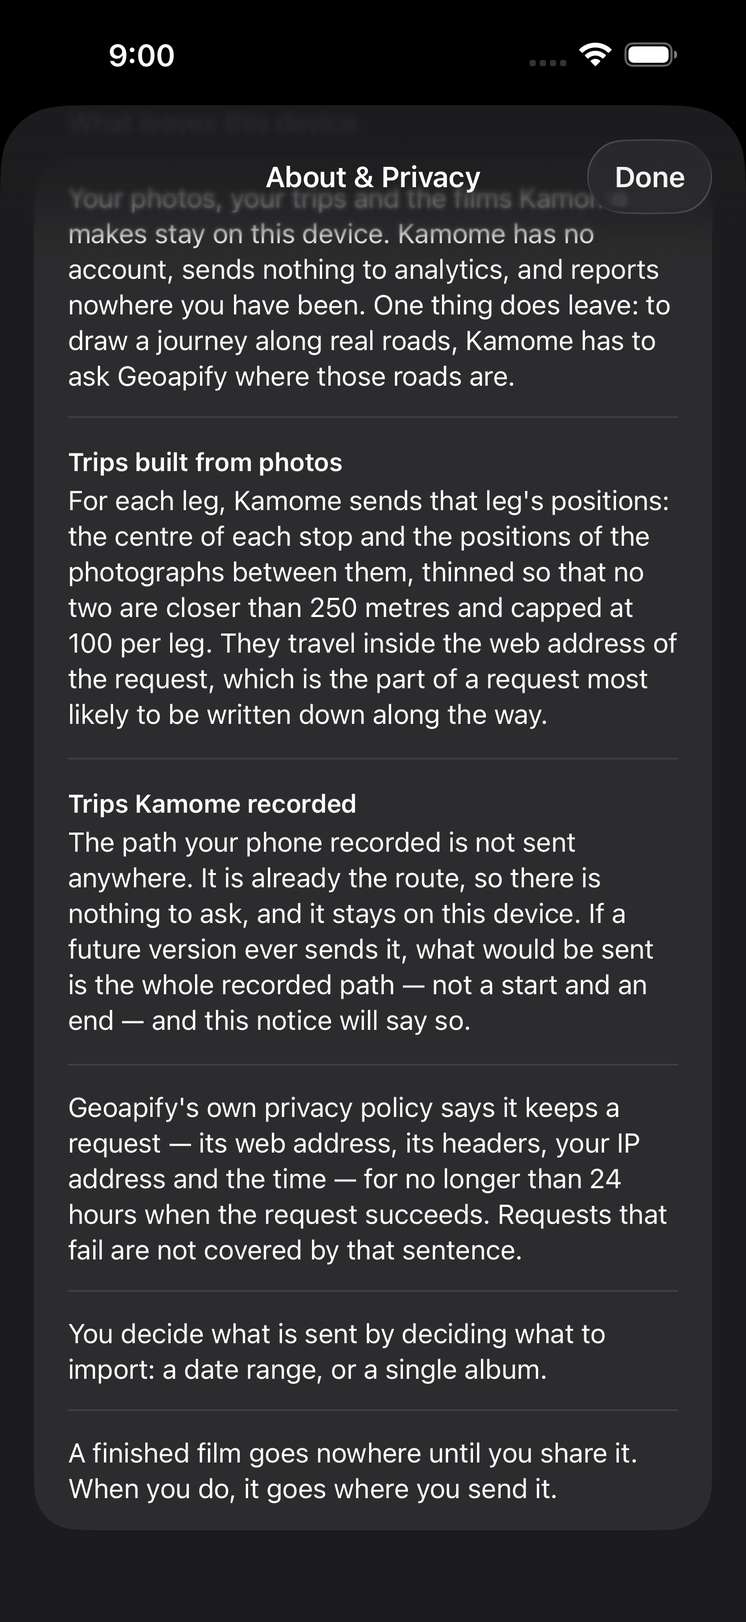
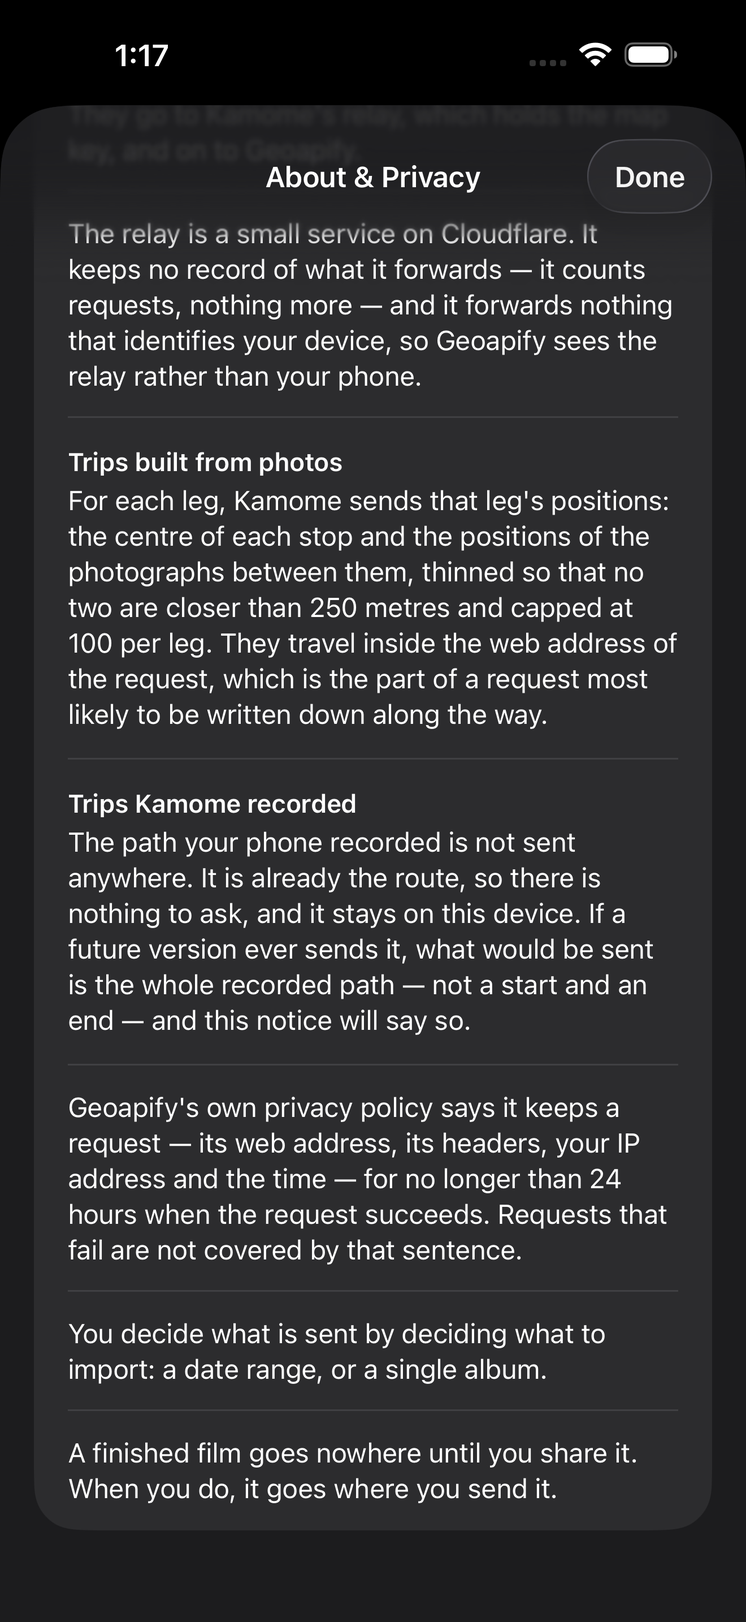
fix(privacy): the first-run card is two sentences and a pointer
Chiu, on the first render: 「告知內容的廢話太多了，使用者根本不會看，簡單說
重點就好。」 He is right, and the failure is worse than cosmetic — a card is
read once, in the seconds before the button, so a wall of text does not
over-deliver on honest disclosure, it silently under-delivers while looking
thorough.

The card is now the lead, the hop, and a line saying it is shown once and
lives under About & Privacy. Nothing left the app: the payload, retention,
the control and sharing stay on AboutView, and what the hop sentence
stopped carrying — Cloudflare, the no-log property, forwarding nothing
that identifies the device — moved to `privacy_relay_detail`, which
AboutView shows and the card does not.

The one-source rule survives in its exact form: every fact is still one
string, the card shows a subset, AboutView shows all of it.

`LocalizationTests` follows the rule to the string that now holds it
rather than weakening (Arch.md §4), and a length ceiling is a test now,
because this is the kind of decision that erodes one well-meaning edit at
a time.

Captures retaken in both languages, and the About set with them — the
2026-09-02 shots showed copy this commit changed. The README says how to
verify which build a screenshot came from: another session installing the
same bundle id onto the same simulator replaced the app mid-session and
produced a convincing shot of the previous wording.

Changed region(s): [[0.0932, 0.0931, 0.9008, 0.2483], [0.1864, 0.031, 0.2174, 0.0621]]

diff --git a/Tests/AppTests/LocalizationTests.swift b/Tests/AppTests/LocalizationTests.swift
@@ -231,23 +231,25 @@ final class LocalizationTests: XCTestCase {
 
     /// **The hop sentence names every party that handles a coordinate** (Chiu
     /// 2026-09-04). The relay is not an implementation detail once it is in the
-    /// path: it is an extra party, on someone else's infrastructure, and a
-    /// notice that says "sent to Geoapify" while the request goes somewhere else
-    /// first is the same class of understatement as "start and end coordinates".
+    /// path: it is an extra party, and a notice that says "sent to Geoapify"
+    /// while the request goes somewhere else first is the same class of
+    /// understatement as "start and end coordinates".
     ///
     /// The direct sentence is held to *not* naming a relay, because the two keys
     /// exist to describe two different topologies and a copy edit that made them
     /// interchangeable would silently make one of them false.
+    ///
+    /// ⚠ **Whose infrastructure the relay runs on is asserted on
+    /// `privacy_relay_detail`, not here** (Chiu 2026-09-06 cut the card to two
+    /// sentences). The rule did not move — the string carrying it did.
     func testTheHopSentencesNameEveryPartyThatHandlesACoordinate() throws {
         let relayEN = try localizedValue("privacy_hop_relay", locale: "en")
         XCTAssertTrue(relayEN.contains("Geoapify"), relayEN)
         XCTAssertTrue(relayEN.contains("relay"), "the extra party must be named: \(relayEN)")
-        XCTAssertTrue(relayEN.contains("Cloudflare"), "whose infrastructure it runs on: \(relayEN)")
 
         let relayZH = try localizedValue("privacy_hop_relay", locale: "zh-Hant")
         XCTAssertTrue(relayZH.contains("Geoapify"), relayZH)
         XCTAssertTrue(relayZH.contains("中繼"), "the extra party must be named: \(relayZH)")
-        XCTAssertTrue(relayZH.contains("Cloudflare"), "whose infrastructure it runs on: \(relayZH)")
 
         for locale in ["en", "zh-Hant"] {
             let direct = try localizedValue("privacy_hop_direct", locale: locale)
@@ -255,6 +257,43 @@ final class LocalizationTests: XCTestCase {
             XCTAssertFalse(
                 direct.lowercased().contains("relay") || direct.contains("中繼"),
                 "[\(locale)] this sentence describes the build that has no relay: \(direct)"
+            )
+        }
+    }
+
+    /// **What the short hop sentence stopped saying, `AboutView` still says.**
+    /// Cutting the first-run card was a decision about *where* the detail lives,
+    /// not about dropping it: the third party running the relay, what it keeps,
+    /// and that it forwards nothing identifying the device are all facts a
+    /// privacy notice may not quietly lose.
+    func testTheRelayDetailKeepsWhatTheShortSentenceDropped() throws {
+        let english = try localizedValue("privacy_relay_detail", locale: "en")
+        XCTAssertTrue(english.contains("Cloudflare"), "whose infrastructure it runs on: \(english)")
+        XCTAssertTrue(english.lowercased().contains("no record"), "what it keeps: \(english)")
+        XCTAssertTrue(english.lowercased().contains("identifies"), "what it forwards: \(english)")
+
+        let chinese = try localizedValue("privacy_relay_detail", locale: "zh-Hant")
+        XCTAssertTrue(chinese.contains("Cloudflare"), "whose infrastructure it runs on: \(chinese)")
+        XCTAssertTrue(chinese.contains("紀錄"), "what it keeps: \(chinese)")
+        XCTAssertTrue(chinese.contains("識別"), "what it forwards: \(chinese)")
+    }
+
+    /// **The first-run card is short, and stays short** (Chiu 2026-09-06: the
+    /// first version was a wall of text, and *「使用者根本不會看」*). A notice
+    /// nobody reads discloses nothing, so length here is a property of the
+    /// disclosure, not styling.
+    ///
+    /// The ceilings are the shipped copy plus roughly half again — loose enough
+    /// that a rewording is free, tight enough that the paragraphs `AboutView`
+    /// carries cannot migrate back onto the card one well-meaning edit at a time.
+    func testTheFirstRunCardStaysShortEnoughToBeRead() throws {
+        for (locale, limit) in [("en", 400), ("zh-Hant", 180)] {
+            let card = try ["privacy_intro", "privacy_hop_relay", "first_run_where"]
+                .map { try localizedValue($0, locale: locale) }
+                .joined()
+            XCTAssertLessThanOrEqual(
+                card.count, limit,
+                "[\(locale)] the card is \(card.count) characters; the detail belongs on AboutView"
             )
         }
     }

diff --git a/UI/About/FirstRunNoticeView.swift b/UI/About/FirstRunNoticeView.swift
@@ -11,11 +11,16 @@ import SwiftUI
 /// question. That omission is **deliberately deferred**, in the ADR, rather than
 /// half-built here.
 ///
-/// **Every sentence is `AboutView`'s sentence** (`PrivacyNoticeCopy`), in the
-/// same order, so the one-time telling and the screen a user can go back to
-/// cannot say different things. ⏳ The wording is still Chiu's and is not ruled
-/// on (`Docs/release-readiness.md` S2/S3); this ships so the obligation is met
-/// rather than deferred.
+/// **Two sentences and a pointer, and that is the whole card** (Chiu
+/// 2026-09-06). It was the full privacy notice first; a wall of text at first
+/// launch is not read, and a notice nobody reads discloses nothing. The detail
+/// it dropped — the payload, retention, the control, what the relay is — is on
+/// `AboutView`, which is where someone goes when they want it, and the last line
+/// says so.
+///
+/// **Every sentence is still `AboutView`'s sentence** (`PrivacyNoticeCopy`):
+/// the card shows the lead, `AboutView` shows the lead *and* the rest. Nothing
+/// is written twice, so the two cannot drift.
 struct FirstRunNoticeView: View {
     let matching: TrackingConfig.Matching
     /// Supplied by the presenter, so this view stores nothing and the fact
@@ -30,9 +35,6 @@ struct FirstRunNoticeView: View {
                     // The load-bearing sentence: which parties handle a
                     // journey's coordinates on the way to the roads.
                     Text(LocalizedStringKey(PrivacyNoticeCopy.hopKey(for: matching)))
-                    Text(PrivacyNoticeCopy.importedBody(for: matching))
-                    Text("privacy_retention")
-                    Text("privacy_control")
                     Text("first_run_where")
                         .font(.footnote)
                         .foregroundStyle(.secondary)

diff --git a/UI/About/PrivacyNoticeCopy.swift b/UI/About/PrivacyNoticeCopy.swift
@@ -24,6 +24,18 @@ enum PrivacyNoticeCopy {
         matching.apiKeyRequired ? "privacy_hop_direct" : "privacy_hop_relay"
     }
 
+    /// What the relay is, what it keeps, and what it forwards — **`AboutView`
+    /// only**, and nil when there is no relay to explain.
+    ///
+    /// The hop sentence above names the parties, which is the fact a first-run
+    /// card exists to deliver (Chiu 2026-09-06: the card is short or it is not
+    /// read). This is the rest of it, on the screen someone opens *because* they
+    /// want the rest of it. Split rather than duplicated: each fact still has one
+    /// string, so the two surfaces cannot state the same thing differently.
+    static func relayDetailKey(for matching: TrackingConfig.Matching) -> String? {
+        matching.apiKeyRequired ? nil : "privacy_relay_detail"
+    }
+
     /// The imported payload — the only sentence carrying numbers, and both come
     /// from config so tuning either one cannot make the notice false.
     ///

diff --git a/UI/About/AboutView.swift b/UI/About/AboutView.swift
@@ -85,6 +85,12 @@ struct AboutView: View {
             // roads — read off the config, so the config flip changes the
             // sentence with it (`PrivacyNoticeCopy`).
             Text(LocalizedStringKey(PrivacyNoticeCopy.hopKey(for: matching)))
+            // The rest of the relay's story. The first-run card carries only the
+            // sentence above, so this is where the detail lives rather than
+            // being cut from the app entirely (Chiu 2026-09-06).
+            if let detail = PrivacyNoticeCopy.relayDetailKey(for: matching) {
+                Text(LocalizedStringKey(detail))
+            }
             payload("privacy_imported_title", body: importedBody)
             payload("privacy_recorded_title", body: Text("privacy_recorded_body"))
             Text("privacy_retention")

diff --git a/Docs/release-readiness.md b/Docs/release-readiness.md
@@ -37,7 +37,7 @@ needs a machine with Xcode).
 | **§0** — no real trip fixture is tracked; no `KamomeLog` call carries coordinates | `check-location-data.sh` |
 | `matching.base_url` is `""` or https — never a LAN address | `check-routing-endpoint.sh` |
 | no routing key is committed, by either path | `check-secrets.sh` |
-| the suite has not silently shrunk (baseline 424) | `check-test-count.sh` |
+| the suite has not silently shrunk (baseline 426) | `check-test-count.sh` |
 | **`current-state.md`'s "Last synced" line names the newest ADR and the newest merged PR** — on the branch, where the rule is satisfiable | `check-staleness.sh` **(new 2026-09-02, PR #30)** |
 | **no config key loses its last consumer** — 3 known-dead are baselined, a 4th fails the build | `check-dead-config.sh` **(new 2026-09-02)** |
 | **`Docs/current-state.md` is synced** to the newest ADR — offline, everywhere — and is **at most one merged PR behind**, one being the structural floor. ⚠ Its **PR half runs locally only**: `gh` is unauthenticated on the CI runner, so CI prints `PR HALF DID NOT RUN` (VERIFIED on run 33632648596). One `GH_TOKEN` line in the workflow would close it. | `check-staleness.sh` **(new 2026-09-02)** |
@@ -101,7 +101,7 @@ an engineering session.
 |---|---|---|---|
 | ~~**S1**~~ | ✅ **CLOSED 2026-09-02 — `release/check-archive.sh`.** The paragraph below is why it exists; it is now a command, not an instruction to remember. ~~**The built artifact is never checked for the key.**~~ `check-secrets.sh` greps *tracked source*. The submission checklist's "unzip the `.ipa`, grep for a key-shaped string" is prose, run by hand, at the moment of highest pressure. | **VERIFIED 2026-08-20** (`pre-launch.md`): two built bundles carried a **plaintext 32-hex key** in `Kamome.app/Info.plist`, read out with stock `PlistBuddy`. FairPlay covers the executable, not resources. | `check-archive.sh <path>` — walk every file in an `.xcarchive`/`.ipa`, fail on a 32-hex match; assert `Info.plist` carries the Worker URL and no key field. Must run **on the artifact**, never the source. |
 | ~~**S2**~~ | ✅ **CLOSED 2026-09-02 — the app now carries the attribution, and a user can reach it.** `Powered by Geoapify` (the format the free plan requires, untranslated in both languages) and `Map data © OpenStreetMap contributors`, each with its link, on `UI/About/AboutView.swift`, reached from an `info.circle` button in Home's toolbar. **In the interface, never in the film** (Chiu 2026-08-17). ~~Attribution does not exist in the app.~~ | **VERIFIED 2026-09-02:** `release/check-attribution.sh` exits 0; `LocalizationTests.testAttributionCarriesBothLicenceObligations` asserts the Geoapify format is byte-identical in `en` and `zh-Hant`, because a translation pass would break the obligation while looking like an improvement. **And visible to a user** — `Docs/demos/release/` holds the simulator captures in both languages, because the gate proves the strings are in the catalogue and cannot prove anyone can see them. | `release/check-attribution.sh` (the catalogue) + the localization test (the format). ⏳ **The placement is still Chiu's**: the toolbar button is the anchor that already existed, not a chosen design, and visual craft is `DESIGNER.md`'s. |
-| ~~**S3**~~ | ✅ **CLOSED 2026-09-02 as a shipping draft — the notice exists and describes both payloads.** Imported legs: stop centres **plus photo positions**, thinned and capped, in the request's URL — and the two numbers are read from `TrackingConfig` rather than typed into the copy, so tuning cannot make the notice untrue. Recorded legs: **nothing is sent**, which is what the code does (see the correction in the row below). "Start and end coordinates" appears nowhere and a test forbids its return. The album control it names **ships** (`ImportSheet.albumSection`). ~~The privacy notice does not exist.~~ | **VERIFIED 2026-09-02:** gate green; three localization tests hold the payload split, the ≤24 h retention *with* its failures exception, and the promise-only-what-ships rule, in both languages. | ⏳ **The wording is Chiu's and is not ruled on** — this ships so the obligation is met rather than deferred. ✅ **The half that was open is answered: Chiu 2026-09-04 — tell the user once on first run, remember it, never again.** Built as `FirstRunNoticeView` from `AboutView`'s own strings (ADR 2026-09-05), so a rewording moves both surfaces. It **informs and is acknowledged; it does not ask**, and the ability to refuse is deferred in the ADR rather than half-built. It stays silent until `matching.base_url` is non-empty, so **the config flip is what publishes it** — S6's row. **Seen, not just compiled:** `Docs/demos/release/first-run-notice-*.png`, both languages, plus the relaunch that shows it is not shown twice. |
+| ~~**S3**~~ | ✅ **CLOSED 2026-09-02 as a shipping draft — the notice exists and describes both payloads.** Imported legs: stop centres **plus photo positions**, thinned and capped, in the request's URL — and the two numbers are read from `TrackingConfig` rather than typed into the copy, so tuning cannot make the notice untrue. Recorded legs: **nothing is sent**, which is what the code does (see the correction in the row below). "Start and end coordinates" appears nowhere and a test forbids its return. The album control it names **ships** (`ImportSheet.albumSection`). ~~The privacy notice does not exist.~~ | **VERIFIED 2026-09-02:** gate green; three localization tests hold the payload split, the ≤24 h retention *with* its failures exception, and the promise-only-what-ships rule, in both languages. | ⏳ **The wording is Chiu's and is not ruled on** — this ships so the obligation is met rather than deferred. ✅ **The half that was open is answered: Chiu 2026-09-04 — tell the user once on first run, remember it, never again.** Built as `FirstRunNoticeView` from `AboutView`'s own strings (ADR 2026-09-05), so a rewording moves both surfaces. **The card is three lines** — Chiu ruled on its length 2026-09-06; the detail stays on `AboutView`, and a test holds the ceiling. It **informs and is acknowledged; it does not ask**, and the ability to refuse is deferred in the ADR rather than half-built. It stays silent until `matching.base_url` is non-empty, so **the config flip is what publishes it** — S6's row. **Seen, not just compiled:** `Docs/demos/release/first-run-notice-*.png`, both languages, plus the relaunch that shows it is not shown twice. |
 | **S3b** | 🟡 **`pre-launch.md`'s payload table is STALE about recorded trips — it describes a state that never arrived, and on the current endpoint cannot.** Its own shape row says "POST — in the body **(after migration)**": the migration was to Geoapify, and **Geoapify has no map-matching endpoint**, so no matcher can be constructed and the recorded column has never described a live payload. The code says exactly this itself at `RouteMatchService.swift:325-327`. **The underlying question — whether a recorded trace is ever sent — is still OPEN and deferred to Capture Beta** (ADR 2026-08-20 (d)'s addendum: *"Deferred to Capture Beta, not decided now"*, *"Nothing to build now"* — it records Chiu's lean, it does **not** decide). | **VERIFIED 2026-09-02:** `provider:` defaults to `nil` and none of the three shipping call sites passes one — `TrackingSession.swift:113`, `ImportFlowModel.swift:155`, `RecapModel.swift:142`; `RouteMatchService.swift:331` is `case .gpsHifi, .gpsPassive: return matcher != nil`. A recorded leg is therefore never offered to routing. | ✅ **Now gated — `RouteMatchRecordedLegTests` (2026-09-02).** The notice promises that if a future version sends the recorded path it will say so, and nothing enforced that: the day Capture Beta wires a matcher on a shipping path, `shouldReconstruct` flips and the notice becomes a lie with no test failing. The test fails on that day and names the notice. **The table itself is Chiu's** — relabel or delete, but it is not an equal claim in conflict with the code. |
 | **S4** | 🟡 **Half gated 2026-09-05 — the repository's half.** ~~The Worker's no-log property is asserted nowhere.~~ `check-worker-privacy.sh` now fails the build on `[observability] enabled = true` or missing, on `preview_urls = true`, and on any `console.*` in `Deploy/worker/src/`. ⚠ **What is still asserted nowhere, and cannot be from here:** account-level **Logpush**, Cloudflare's own analytics retention, and whether anyone has run **`wrangler tail`** against production. And the shape underneath is unchanged — `/v1/routing` is GET-only, so real coordinates travel **in the URL**, the most-logged part of an HTTP request. | `pre-launch.md`, `Deploy/worker/README.md`. Deployed 2026-08-27. **VERIFIED 2026-09-05:** the gate was positive-controlled five ways — observability on, observability absent, preview URLs on, a planted `console.log`, and a *commented-out* setting, which must not satisfy it. | the residue is an account-side assertion nobody can write in this repository, plus the GET→POST question, which is provider-shaped and not the Worker's. → `HANDOFF.md`. A proxy that logs makes §0 worse while appearing to make it better. |
 | ~~**S5**~~ | ✅ **CLOSED 2026-09-04 — the ceiling exists in production.** ~~No per-day budget counter exists in the Worker.~~ `Deploy/worker/src/index.js` refuses above `DAILY_REQUEST_CEILING` (2000/day, Chiu's number) with 429 + `Retry-After` to UTC midnight, and **fails closed at 503** when it cannot count. Deployed from merged `main` (`07fdd14`), **Version ID `5b33922c-0f4e-4d2a-986d-59e8eb7332b4`**. | **VERIFIED from Geoapify's own pages, 2026-08-29:** limits are **soft on every tier**, no customer-settable cap, escalation ends in **account blocking** — which is why the ceiling had to exist here or nowhere. **VERIFIED 2026-09-04 in production:** the after-probe's `/v1/routing` returns **200**, and since *every* KV fault fails closed at 503, that 200 is itself the proof the binding is attached, the ceiling parsed, and the counter read and wrote. `routing-requests-2026-09-04` went **0 → 2** across two probe requests. Suite 19/19; the gate was shown to fire twice (four tests fail when it is neutered; a `wrangler dev` control at ceiling 1 answers the second request 429). | ✅ Done. ⚠ **What this does NOT close: `matching.base_url` is still `""`**, so no build calls the Worker yet and **every build still carries the routing key**. That is the config flip — S6's row — and it is Chiu's. |

diff --git a/Docs/demos/release/README.md b/Docs/demos/release/README.md
@@ -2,7 +2,22 @@
 
 Evidence for rows in `Docs/release-readiness.md` that a gate cannot produce.
 
-## `about-screen-*.png` — S2 and S3, 2026-09-02
+**All captures below were retaken 2026-09-06** on iPhone 17 Pro Max, iOS 26.5,
+from the Debug build — so the debug wrench in the toolbar is present and does
+**not** ship. The earlier 2026-09-02 set was replaced rather than kept: the
+privacy copy changed that day, and a screenshot that contradicts the code is
+worse evidence than none.
+
+⚠ **Verify the bundle before believing a capture.** These are simulator shots,
+and another session building the same bundle id onto the same simulator replaces
+the app under you — it happened once during this session and produced a
+convincing screenshot of the *previous* wording. Check the installed bundle, not
+the source:
+
+    APP=$(xcrun simctl get_app_container <udid> com.chiu.kamome.dev app)
+    plutil -extract privacy_hop_relay raw -o - "$APP/en.lproj/Localizable.strings"
+
+## `about-screen-*.png` — S2 and S3
 
 `Scripts/release/check-attribution.sh` proves the strings are **in the
 catalogue**. It cannot prove a user can ever **see** them, and that gap is
@@ -11,12 +26,12 @@ that it is compiled. These are that half.
 
 | file | what it shows |
 |---|---|
-| `about-screen-en.png` | the sheet in `en`: both attributions with their links, and the first payload |
-| `about-screen-en-2.png` | the rest of `en`: the recorded payload, retention, the album control, sharing |
+| `about-screen-en.png` | `en`: both attributions with their links, the lead, the hop, and what the relay is |
+| `about-screen-en-2.png` | the rest of `en`: both payloads, retention, the album control, sharing |
 | `about-screen-zh-Hant.png` | the same sheet in `zh-Hant`, the development language |
+| `about-screen-zh-Hant-2.png` | the rest of `zh-Hant` |
 
-Captured on iPhone 17 Pro Max, iOS 26.5, from the Debug build — so the debug
-wrench in the toolbar is present and does **not** ship. Reproduce with:
+Reproduce with:
 
     xcrun simctl launch <udid> com.chiu.kamome.dev -AppleLanguages '(en)' -AppleLocale en_US
 
@@ -30,21 +45,20 @@ not typed into the copy.** If a future capture shows different numbers, the
 config moved and the notice followed it — which is the intended behaviour, not
 a stale screenshot.
 
-**No location data is in these images** (§0): the device holds no trips, so the
-sheet is the only thing on screen.
-
-## `first-run-notice-*.png` — the S3 answer, 2026-09-05
+## `first-run-notice-*.png` — the S3 answer
 
 ADR 2026-09-05: the user is **told once, on first run**, that real trip
 coordinates leave the device. The unit tests prove the gating and the
-remembering; they cannot prove anyone can read the screen, which is the same gap
-the About captures exist to close.
+remembering; they cannot prove anyone can read the screen.
+
+**The card is three lines** (ADR addendum 2026-09-06 — Chiu, on the first
+render: *「告知內容的廢話太多了，使用者根本不會看」*). The detail it does not
+carry is on the About sheet above, which is what its last line points at.
 
 | file | what it shows |
 |---|---|
-| `first-run-notice-en.png` | the notice as it opens in `en`: what stays, then the relay hop |
-| `first-run-notice-en-2.png` | the rest of `en`: the payload, retention, the control, and where to read it again |
-| `first-run-notice-zh-Hant.png` | the whole notice in `zh-Hant`, the development language |
+| `first-run-notice-en.png` | the whole card in `en`: the lead, the hop, where to read the rest, one button |
+| `first-run-notice-zh-Hant.png` | the same card in `zh-Hant` |
 | `first-run-notice-relaunch-en.png` | **after "Got it", terminate, relaunch** — Home, no notice. The `info.circle` is how it is read again |
 
 ⚠ **Captured against a *simulated* post-flip build, and the repository's config
@@ -57,11 +71,10 @@ unchanged and the gate still reads `""`. Reproduce:
     cp -R <DerivedData>/Build/Products/Debug-iphonesimulator/Kamome.app /tmp/cap/
     # edit /tmp/cap/Kamome.app/TrackingConfig.json: base_url, api_key_required
     xcrun simctl install <udid> /tmp/cap/Kamome.app
-    xcrun simctl launch  <udid> com.chiu.kamome.dev -AppleLanguages '(en)' -AppleLocale en_US
 
 ⚠ **`api_key_required = false` is what selects the sentence naming the relay**
-(`privacy_hop_relay`). A capture made with it `true` would show
-`privacy_hop_direct` instead — that is the copy following the config, not a
-stale screenshot.
+(`privacy_hop_relay`), and it is also what makes the About sheet show what the
+relay is. A capture made with it `true` would show `privacy_hop_direct` and no
+relay paragraph — that is the copy following the config, not a stale screenshot.
 
-**No location data is in these images** (§0): the device holds no trips.
+**No location data is in any of these images** (§0): the device holds no trips.

diff --git a/HANDOFF.md b/HANDOFF.md
@@ -41,11 +41,10 @@ is the gate**; these are the only rows on it that nobody has started.
    D2 feeds a mandatory submission item. → `Docs/release-readiness.md` Tier 3,
    `Docs/device-test-P3.md`.
 
-**S4 is half gated** (`check-worker-privacy.sh`, 2026-09-05): the deploy config's
-no-log settings are asserted. What is not, and cannot be from here: **Logpush,
-Cloudflare's retention, and whether anyone ran `wrangler tail`** — an account this
-repo cannot see — and `/v1/routing` is still GET-only, so real coordinates ride in
-the URL. → `Docs/release-readiness.md` S4.
+**S4 is half gated** (`check-worker-privacy.sh`, 2026-09-05): the Worker's deploy
+config is asserted no-log. **The account side — Logpush, retention, `wrangler
+tail` — cannot be asserted from here**, and `/v1/routing` is still GET.
+→ `Docs/release-readiness.md` S4.
 
 ---
 
@@ -79,10 +78,11 @@ the URL. → `Docs/release-readiness.md` S4.
   they are not in §0's decided-exceptions list. Either a recorded exception or
   they move out. **Deliberately not gated** — a gate would pre-empt your call.
   → `Docs/handoff-audit-2026-08-30.md` finding 7.
-- **S2's placement and S3's wording** ship as a working draft, not a ruling — and
-  the first-run notice now shows the same strings, so a rewording moves both. Its
-  own open half is **whether a user may refuse**, deferred until a mechanism
-  exists (ADR 2026-09-05). → `Docs/release-readiness.md` S2/S3.
+- **S2's placement and `AboutView`'s wording** ship as a working draft, not a
+  ruling. The first-run card's wording **is** ruled — three lines, 2026-09-06 —
+  and shares About's strings, so a rewording moves both. Its own open half is
+  **whether a user may refuse**, deferred until a mechanism exists
+  (ADR 2026-09-05). → `Docs/release-readiness.md` S2/S3.
 - **S3b — `pre-launch.md`'s recorded-leg payload row describes a state that never
   arrived.** Relabel or delete; it is not an equal claim in conflict with the
   code. → `Docs/release-readiness.md` S3b.
@@ -139,8 +139,11 @@ the URL. → `Docs/release-readiness.md` S4.
 - **Read a style value off the preset the app selects, never off the defaults.**
   `RecapStyle`'s defaults are unrendered; the app selects `modernMinimal`. Got
   wrong twice, cost a ledger correction both times.
-- **Two sessions sharing one checkout contaminate each other's counts.** Confirm
-  your branch and your distance from `origin/main` first.
+- **Two sessions contaminate each other's counts** (one checkout) **and each
+  other's simulator** (one bundle id): `xcodebuild test` installs the other
+  session's build over yours, so a capture can show the wrong wording
+  convincingly. Confirm your branch; read the *installed* bundle's strings before
+  believing a screenshot (`Docs/demos/release/README.md`).
 - **MapKit saturates at ~109° of longitude** — Taiwan→Iceland has no frame at any
   padding, so the frozen country card is a **main path**, not a fallback.
 

diff --git a/Docs/decisions.md b/Docs/decisions.md
@@ -3459,3 +3459,40 @@ repository cannot see. And the shape underneath all of it is unchanged —
 **`/v1/routing` is GET-only, so real coordinates travel in the URL**, which is
 the most-logged part of an HTTP request. Moving them into a POST body is a
 provider-shaped change, not a Worker-shaped one, and it is not made here.
+
+### Addendum 2026-09-06 — Chiu ruled on the wording: the card is two sentences
+
+The first version of the card was the **whole** privacy notice: the lead, the
+hop, the payload with its two config numbers, Geoapify's retention, and the
+control. Chiu, on the render: *「告知內容的廢話太多了，使用者根本不會看，簡單說
+重點就好。」*
+
+**He is right, and the failure is worse than cosmetic.** A first-run card is
+read once, in the two seconds before someone taps the button. A notice nobody
+reads discloses nothing, so a wall of text does not over-deliver on §0's honest
+disclosure — it silently under-delivers while looking thorough. Length is a
+property of the disclosure here, not styling.
+
+**What the card is now:** the lead (photos, trips and films stay; the positions
+along the route leave), the hop (Kamome's relay, then Geoapify), and a line
+saying it is shown once and lives under About & Privacy. Three lines.
+
+**Nothing was deleted from the app.** The payload with its numbers, the recorded
+paragraph, retention, the control and sharing stay on `AboutView`, and what the
+hop sentence stopped carrying — Cloudflare, the no-log property, forwarding
+nothing that identifies the device — moved to `privacy_relay_detail`, which
+`AboutView` shows and the card does not. `LocalizationTests` follows it there:
+the assertion did not weaken, the string carrying the rule changed
+(`Arch.md` §4 — a rule is restated on the thing that now holds it).
+
+**The one-source rule survives, in its exact form:** each fact still exists as
+exactly one string. The card shows a subset; `AboutView` shows all of it. Nothing
+is written twice, so the two surfaces still cannot say the same thing
+differently.
+
+⚠ **A length ceiling is now a test**, because this decision is the kind that
+erodes: `testTheFirstRunCardStaysShortEnoughToBeRead` fails if the card's three
+strings grow past the shipped copy plus roughly half again. It exists to stop the
+`AboutView` paragraphs migrating back one well-meaning edit at a time.
+
+⏳ Still not ruled on: **S2's placement**, and the wording of `AboutView` itself.

diff --git a/Docs/current-state.md b/Docs/current-state.md
@@ -109,7 +109,7 @@ which no Claude session can do).
 | **Camera shake / ghosting closed** — the loop reprojects one snapshot instead of cross-fading two. | 2026-08-31 (b) |
 | **Kamome's films are three types; 1 and 2 ship, 3 is deferred. The film ends at the destination — there is no return flight.** A type is *distinct local journeys*, derived and never stored. | 2026-09-01 |
 | **Documents are archived when their work closes**, and the live corpus has a byte ceiling. | 2026-09-03 |
-| **The user is told once, on first run, that coordinates leave this device — and the notice informs rather than asks.** Refusal is deferred until a mechanism exists; wording not ruled on. | 2026-09-05 |
+| **The user is told once, on first run, that coordinates leave this device — and the notice informs rather than asks.** Refusal is deferred until a mechanism exists; the card is three lines. | 2026-09-05 |
 | **The Worker carries a per-day spend ceiling and fails closed.** 2000/day in `wrangler.toml`, never in the app's config. Live since 2026-09-04. KV's overshoot is accepted and its window is measured in tens of seconds; **do not switch to a Durable Object.** | 2026-09-04 |
 | **Honest provenance** — never "Verified Trip"; recorded and reconstructed-from-photos are different things; a wrong road is never drawn as fact. | spec §0, v1.8 §4.4.1 |
 
